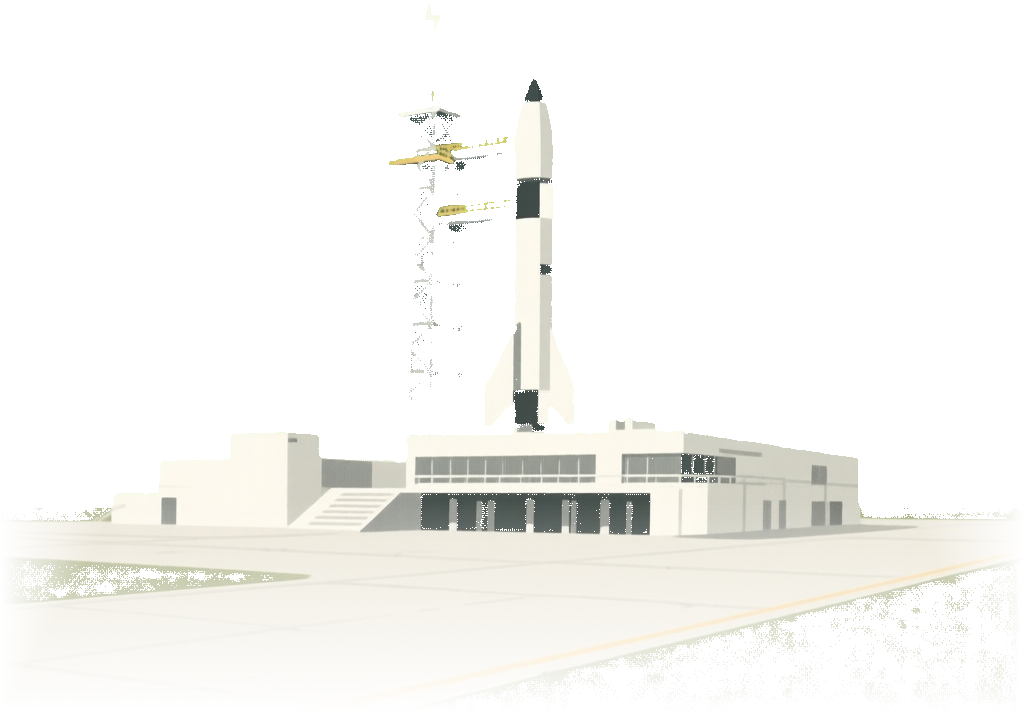
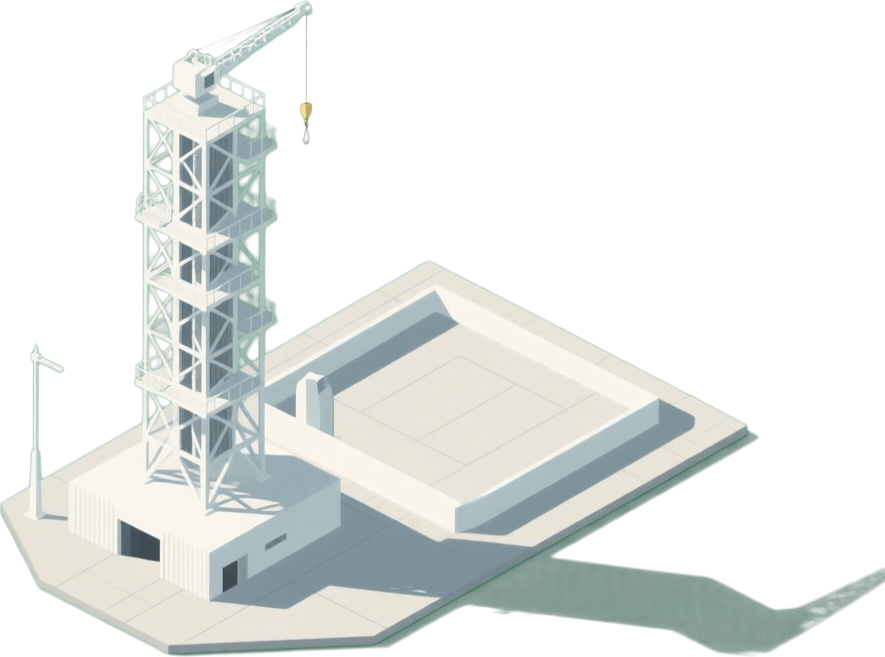
Cape Canaveral rebuilt as one scene: locked-angle buildings on the player's road plan
The Cape's buildings were separate pictures with different camera angles,
lighting and scales, laid over a background whose roads ignored them. It
is now one coherent scene:

- Ground: a fresh empty painting of the Cape (river, beach, scrub).
- Roads: the player's mock-up of the road plan, redrawn as smooth sand
  tracks in the painting's own track colour, with clearings squared to the
  buildings and a straight tapering runway strip; every clearing joins a
  road, each launch tower has a spur, and the old ragged painted track is
  replaced (tools/art_source/cape_roads.py).
- Buildings, hangar and launch complexes (built, bare site, wrecked) all
  regenerated at one locked high three-quarter view and sun
  (tools/art_source/cape_locked_angle.py), placed where the player put them.
- Unbuilt buildings show bare ground here instead of a plot outline
  (sides.usa.plots = false); small landmarks near the bottom bar carry
  their name above them.

Baikonur and Woomera are unchanged.

diff --git a/tools/art_source/cape_roads.py b/tools/art_source/cape_roads.py
@@ -1,0 +1,73 @@
+import numpy as np, math, json, sys
+from PIL import Image, ImageDraw, ImageFilter
+from scipy.ndimage import binary_dilation, gaussian_filter
+S=sys.argv[1]+"/"
+G=np.asarray(Image.open('/home/leeo/craft/in/cape2/ground.png').convert('RGB')).astype(float)
+H_,W_=G.shape[:2]
+r,gg,b=G[...,0],G[...,1],G[...,2]
+sandy=(r>215)&(r-b>18)&(r-gg>5)&(gg>190)
+# --- erase original tracks (diagonal from y>=430, the faint horizontal and right branch) ---
+yy,xx=np.mgrid[0:H_,0:W_]
+diag_x=np.interp(yy,[430,480,520,560,600,640,680,720,760,800,840,880,920,960,1000,1040,1080],[1170,1233,1295,1345,1387,1436,1480,1522,1560,1600,1643,1672,1707,1747,1781,1812,1845])
+ed=(sandy|((r>200)&(gg>195)&(r-b>15)))&(yy>=430)&(np.abs(xx-diag_x)<70)
+ed=binary_dilation(ed,iterations=4)
+hline_y=np.interp(xx,[0,500,1040],[428,410,386]); rb_y=np.interp(xx,[1480,1700,1920],[666,658,650])
+eh=((np.abs(yy-hline_y)<5)&(xx<1040)&(r>200))|((np.abs(yy-rb_y)<6)&(xx>1480)&(r>200)&(yy>640))
+eh=binary_dilation(eh,iterations=4)
+def shift(dx,dy):
+    o=np.empty_like(G); xs=np.clip(np.arange(W_)+dx,0,W_-1); ys=np.clip(np.arange(H_)+dy,0,H_-1)
+    return G[ys][:,xs]
+left=shift(-100,0); right=shift(100,0); below=shift(0,14)
+src=np.where((xx<diag_x)[...,None],left,right)
+clean=G.copy()
+bd=gaussian_filter(ed.astype(float),2.0)[...,None]; clean=clean*(1-bd)+src*bd
+bh=gaussian_filter(eh.astype(float),1.5)[...,None]; clean=clean*(1-bh)+below*bh
+Image.fromarray(np.clip(clean,0,255).astype(np.uint8)).save(S+"ground_clean.png")
+# --- roads ---
+def chaikin(p,n=5):
+    for _ in range(n):
+        q=[p[0]]
+        for a,c in zip(p,p[1:]): q+=[(a[0]*.75+c[0]*.25,a[1]*.75+c[1]*.25),(a[0]*.25+c[0]*.75,a[1]*.25+c[1]*.75)]
+        q.append(p[-1]); p=q
+    return p
+def width(y): return 10+15*max(0,min(1,(y-380)/700))
+roads=[
+ ([(1000,388),(1100,410),(1180,445),(1233,480),(1295,520),(1345,560),(1387,600),(1436,640),(1480,680),(1522,720),(1560,760),(1600,800),(1643,840),(1675,880),(1707,920),(1747,960),(1781,1000),(1812,1040),(1845,1095)],1.0),
+ ([(-10,428),(500,410),(1000,388)],0.85),
+ ([(1478,667),(1600,661),(1750,655),(1930,650)],0.9),
+ ([(522,585),(610,598),(690,625),(750,665),(840,735),(960,815),(1080,900),(1200,985),(1290,1050),(1345,1095)],1.0),
+ ([(612,1095),(700,1010),(820,935),(960,860),(1080,800),(1190,735),(1262,705),(1380,682),(1478,667)],1.0),
+ ([(1160,628),(1176,650),(1212,690),(1236,712)],0.8),
+ ([(186,836),(250,866),(300,895),(400,945),(482,996)],0.9),
+ ([(676,622),(612,658),(578,684),(596,703),(626,722)],0.8),
+ ([(1252,490),(1290,492)],0.8),
+ ([(1426,633),(1478,632)],0.8),
+ ([(1604,806),(1662,805)],0.8),
+ ([(958,556),(925,580),(895,604)],0.75),
+]
+A=(0.873,0.488); B=(0.877,-0.479)
+def para(P0,lb,la):
+    P1=(P0[0]+B[0]*lb,P0[1]+B[1]*lb); P2=(P1[0]+A[0]*la,P1[1]+A[1]*la); P3=(P0[0]+A[0]*la,P0[1]+A[1]*la)
+    return [P0,P1,P2,P3]
+lots=[para((750,642),110,52),para((1030,600),70,112),para((590,735),56,46),para((42,795),66,182),para((362,1016),78,205)]
+runway=[(45.7,185.0),(86.3,182.5),(354.7,398.8),(227.3,406.5)]
+K=4; m=Image.new('L',(W_*K,H_*K),0); d=ImageDraw.Draw(m)
+for pts,f in roads:
+    s=chaikin(pts)
+    for p,q in zip(s,s[1:]):
+        w=width((p[1]+q[1])/2)*f*K
+        d.line([(p[0]*K,p[1]*K),(q[0]*K,q[1]*K)],fill=255,width=max(1,int(w)))
+        d.ellipse([q[0]*K-w/2,q[1]*K-w/2,q[0]*K+w/2,q[1]*K+w/2],fill=255)
+    p=s[0]; w=width(p[1])*f*K; d.ellipse([p[0]*K-w/2,p[1]*K-w/2,p[0]*K+w/2,p[1]*K+w/2],fill=255)
+for q in lots+[runway]: d.polygon([(x*K,y*K) for x,y in q],fill=255)
+for cx,cy,rr in ((760,656,11),): d.ellipse([(cx-rr)*K,(cy-rr)*K,(cx+rr)*K,(cy+rr)*K],fill=255)
+mask=np.asarray(m.resize((W_,H_),Image.LANCZOS).filter(ImageFilter.GaussianBlur(0.9))).astype(float)
+noise=np.asarray(Image.effect_noise((W_,H_),20).convert('L').filter(ImageFilter.GaussianBlur(0.7))).astype(float)-128
+SAND=(244,226,199)
+rgb=np.dstack([SAND[i]+noise*0.035 for i in range(3)])
+Image.fromarray(np.dstack([np.clip(rgb,0,255),mask]).astype(np.uint8),'RGBA').save(S+"sand_roads.png")
+# flat background for the game
+cl=clean.copy(); al=(mask/255)[...,None]
+bg=cl*(1-al)+rgb*al
+Image.fromarray(np.clip(bg,0,255).astype(np.uint8)).save(S+"bg_spring.png")
+print("ok")

diff --git a/tools/art_source/cape_locked_angle.py b/tools/art_source/cape_locked_angle.py
@@ -1,0 +1,39 @@
+import sys
+sys.path.insert(0, "tools")
+import comfy_batch as cb
+from pathlib import Path
+out = Path(sys.argv[1])
+cfg = cb.STYLE["spaceport"]
+VIEW = ("seen from a high aerial angle looking down at about 40 degrees, a three-quarter view with the long front face "
+        "toward the lower left and the right side face visible toward the lower right, the flat roof clearly visible from above, "
+        "like a precise isometric architectural model; afternoon sun from the upper left, the right side face in soft shade, "
+        "a short soft shadow falling to the lower right")
+TEMPLATE = ("Flat vector illustration like a 1960s magazine plate, soft two-tone cel shading, clean geometric shapes, no outlines, "
+            "limited muted palette. {desc}, at an American space centre of the 1960s, clean white 1960s American modernist style, "
+            "{view}, the whole structure visible and centred, isolated in front of a plain solid flat bright green chroma key background #00FF00.")
+ids = ["padsite", "padwreck"]
+OVERRIDE = {
+    "padsite": ("A small empty octagonal concrete launch pad with a square concrete launch mount pedestal in its middle, nothing standing on it, no tower, no buildings, just the bare pad", "tower, gantry, rocket, building, crane, mast, people"),
+    "padwreck": ("A wrecked small octagonal concrete launch pad after a rocket explosion: the concrete scorched black, a steel lattice service tower bent and collapsed lying across the pad in twisted wreckage, small wisps of grey smoke, no fire", "rocket, flames, fire, people, vehicles"),
+    "tower": ("A 1960s American rocket launch complex with a small compact footprint: a tall rectangular steel lattice mobile service gantry tower, several times taller than it is wide, with platforms at many levels and a crane arm on top, standing right beside an empty square launch mount pedestal, both on a small octagonal concrete pad, a short umbilical mast beside the mount; the pad is empty with no rocket", "rocket, missile, spacecraft, smoke, fire, flames, exhaust, people, vehicles, large apron, wide concrete area, trench"),
+    "pad": ("An empty 1960s rocket launch pad: a large square concrete launch apron with a narrow dark grey empty concrete channel cut across it, a tall red-and-white steel lattice umbilical service tower standing at one side of an empty launch mount, a small low concrete blockhouse at the edge of the apron, the pad is empty with no rocket", "rocket, missile, spacecraft, smoke, fire, flames, lava, orange, glow, exhaust, people, vehicles"),
+    "hangar": ("A single aircraft hangar with a curved barrel-vault roof and a large open door, standing on a small square concrete apron, nothing else in the picture", "runway, airstrip, road, aeroplane, aircraft, people"),
+    "vab": ("A gigantic vehicle assembly building: a very tall white windowless box, about twice as tall as it is wide, "
+            "with huge tall vertical doors running almost the full height of the front, a low two-storey annex at its base", ""),
+    "memorial": ("A single slender white stone obelisk memorial standing alone on a low three-step square plinth on a small paved square, "
+                 "a wreath at its base, nothing else in the picture", "building, house, office, wall, roof, people"),
+}
+for bid in ids:
+    d = OVERRIDE[bid][0]
+    neg = cfg["cutout_negative"] + ", front view, straight-on elevation, side view, ground level view, low angle"
+    if OVERRIDE[bid][1]:
+        neg += ", " + OVERRIDE[bid][1]
+    for k in range(30, 33):
+        img = cb.run_workflow(cb.t2i_graph(TEMPLATE.format(desc=d, view=VIEW), cb.seed_for("angle/" + bid) + k, 1024, 768, neg), timeout=1800)[0]
+        img = cb.chroma_key(img, tuple(cfg["chroma_key"]), tight=True)
+        bb = img.getchannel("A").point(lambda v: 255 if v > 40 else 0).getbbox()
+        if bb:
+            img = img.crop(bb)
+        img.save(out / f"{bid}_{k}.png")
+        print(bid, k, flush=True)
+print("ALL-DONE")

diff --git a/tools/spaceport_layout.py b/tools/spaceport_layout.py
@@ -85,27 +85,27 @@ FIXED = {
 }
 # Hand-placed boxes that replace the solver for a whole side: (x, y, w, h) as canvas
 # fractions, each the full trimmed cutout. All three sites follow the player's mock-ups of
-# 2026-10-13/14 (measured by template-matching the cutouts in them), with buildings that
+# 2026-10-13/14 (the Cape redone at one camera angle on 2026-10-15) (measured by template-matching the cutouts in them), with buildings that
 # fell under the bottom bar lifted to end at 0.945; "flag" moves the flag.
 MANUAL = {
     "usa": {
-        "pad_1": (0.4623, 0.3851, 0.1226, 0.1516),
-        "pad_2": (0.6661, 0.3628, 0.1006, 0.1247),
-        "pad_3": (0.8522, 0.3460, 0.0802, 0.0995),
-        "vab": (0.5445, 0.4688, 0.1950, 0.1944),
-        "mission_control": (0.2531, 0.5451, 0.1462, 0.1516),
-        "administration": (0.5655, 0.7014, 0.1777, 0.1795),
-        "research": (0.1777, 0.5247, 0.0770, 0.1116),
-        "programs": (0.3291, 0.8334, 0.2358, 0.1116),
-        "astronaut_complex": (0.0142, 0.6633, 0.1918, 0.1907),
-        "training": (0.2165, 0.7340, 0.1525, 0.1451),
-        "museum": (0.4009, 0.6530, 0.1541, 0.1312),
-        "intelligence": (0.7982, 0.7776, 0.1006, 0.1674),
-        "runway": (0.7893, 0.4242, 0.2060, 0.2065),
-        "flag": (0.7448, 0.6307, 0.0802, 0.1377),
-        "moon": (0.3900, 0.1000, 0.0450, 0.0800),
-        "memorial": (0.8775, 0.6220, 0.0450, 0.0980),
-        "capital": (0.8975, 0.2764, 0.0750, 0.1016),
+        "vab": (0.3682, 0.1741, 0.1313, 0.1861),
+        "mission_control": (0.5911, 0.4491, 0.1000, 0.1259),
+        "administration": (0.4448, 0.5769, 0.1307, 0.1509),
+        "research": (0.5911, 0.6907, 0.1260, 0.1685),
+        "programs": (0.3297, 0.6139, 0.0891, 0.1028),
+        "astronaut_complex": (0.0813, 0.6139, 0.1469, 0.1694),
+        "training": (0.2302, 0.4056, 0.1208, 0.1333),
+        "museum": (0.2745, 0.7880, 0.1260, 0.1537),
+        "intelligence": (0.4865, 0.4352, 0.0729, 0.0972),
+        "memorial": (0.5443, 0.8926, 0.0370, 0.0500),
+        "pad_1": (0.6453, 0.3380, 0.0917, 0.1213),
+        "pad_2": (0.7464, 0.4602, 0.0969, 0.1278),
+        "pad_3": (0.8406, 0.6139, 0.1021, 0.1352),
+        "runway": (0.1349, 0.2380, 0.0792, 0.0833),
+        "flag": (0.5016, 0.8213, 0.0312, 0.0537),
+        "capital": (0.6776, 0.1647, 0.0302, 0.0409),
+        "moon": (0.0781, 0.0370, 0.0448, 0.0796),
     },
     "ussr": {
         "pad_1": (0.0073, 0.3916, 0.1158, 0.1579),
@@ -146,6 +146,8 @@ MANUAL = {
         "capital": (0.2000, 0.2619, 0.0300, 0.1001),
     },
 }
+# Sites painted as one scene: an unbuilt building shows bare ground, not a plot outline.
+NO_PLOTS = {"usa"}
 FRONT_Y = {"usa": 0.93, "ussr": 0.84, "cwth": 0.93}    # below this is foreground (dunes, scrub mound)
 GAP = 8                                 # pixels at analysis scale between buildings
 
@@ -343,6 +345,9 @@ def main() -> None:
         print(f"{side}: horizon {sides[side]['horizon']}, preview {out_dir / f'preview_{side}.png'}")
     if not a.preview_only:
         data["sides"] = {s: {k: v[k] for k in ("buildings", "flag") if k in v} for s, v in sides.items()}
+        for s in NO_PLOTS:
+            if s in data["sides"]:
+                data["sides"][s]["plots"] = False
         LAYOUT.write_text(json.dumps(data, indent=2) + "\n")
         print(f"wrote {LAYOUT.relative_to(ROOT)}")
 

diff --git a/tools/art_source/cape_ground.py b/tools/art_source/cape_ground.py
@@ -1,0 +1,16 @@
+import sys
+sys.path.insert(0, "tools")
+import comfy_batch as cb
+from pathlib import Path
+out = Path(sys.argv[1])
+p = ("Flat vector illustration like a 1960s magazine plate, soft two-tone cel shading, clean shapes, no outlines, limited muted palette. "
+     "A wide empty stretch of flat Florida coastal scrubland seen from high above at a 40 degree angle, an aerial view. "
+     "A thin strip of pale sky at the very top above a gently curved horizon. A wide river runs diagonally across the upper part of the picture "
+     "from the upper left down toward the right, with natural sandy banks, and a far green shore beyond it. "
+     "The near land fills most of the picture: flat open grassland in soft greens with scattered low scrub and small clumps of trees, "
+     "completely empty and undeveloped, no roads, no paths, no buildings, no structures. Afternoon light from the upper left.")
+neg = "roads, paths, tracks, buildings, houses, structures, towers, rockets, people, cars, text, labels, watermark, photograph, photorealistic, city, fields, farmland"
+for k in range(3):
+    img = cb.run_workflow(cb.t2i_graph(p, cb.seed_for("angle/cape_ground") + k, 1664, 928, neg), timeout=1800)[0]
+    cb.fit_cover(img.convert("RGB"), (1920, 1080)).save(out / f"ground_{k}.png")
+    print("g", k, flush=True)

diff --git a/game/assets/MANIFEST.md b/game/assets/MANIFEST.md
@@ -34,7 +34,7 @@ Regenerate the audio with `python3 -I tools/gen_audio.py --out game/assets/audio
 | art/hardware/ussr/*.png | Soviet hardware icons, 512x512, green-screen keyed to alpha | Qwen-Image (Apache 2.0) text-to-image via tools/comfy_batch.py from the descriptions in tools/comfy_style.json; seed = crc32(side/group_slot), Luna and UR-700 +1, Kicker-A +3 | CC0 (AI output) |
 | art/hardware/cwth/*.png | Commonwealth hardware icons, 512x512, green-screen keyed to alpha | as above; seed = crc32(side/group_slot) | CC0 (AI output) |
 | art/backdrops/*.png | title, newscast and end-game backdrops, 1920x1080 | Qwen-Image (Apache 2.0) text-to-image via tools/comfy_batch.py; seed = crc32(name), newscast_ussr +2, mission_control_usa +1, title +20 (visor repainted gold by hand) | CC0 (AI output) |
-| art/spaceport/usa/*.png | Cape Canaveral: two season backgrounds (1920x1080) and green-screen cutouts for each building, plot, pad state and flag | Qwen-Image (Apache 2.0) text-to-image via tools/comfy_batch.py from tools/comfy_style.json; seed = crc32(side/layer), flag +1, building_runway +3, building_memorial +1; building_capital is the Capitol at the base seed | CC0 (AI output) |
+| art/spaceport/usa/*.png | Cape Canaveral, rebuilt 2026-10-15 as one scene: an empty ground painting with the player's road layout painted in (tools/art_source/cape_roads.py), and every building, pad state and the hangar regenerated at one locked camera angle and sun (tools/art_source/cape_locked_angle.py); autumn graded from spring | Qwen-Image (Apache 2.0) text-to-image; ground seed crc32(angle/cape_ground)+1 (tools/art_source/cape_ground.py); cutouts seed crc32(angle/<name>)+k: administration, research, programs, astronaut_complex, training, mission_control, museum, intelligence k=0, vab 2, memorial 3, hangar (building_runway) 1, launch tower (pad_ok) tower 23, pad_site padsite 30, pad_damaged padwreck 31; flag and Capitol unchanged | CC0 (AI output) |
 | art/spaceport/ussr/*.png | Baikonur: the same layer set | Qwen-Image (Apache 2.0) text-to-image via tools/comfy_batch.py; seed = crc32(side/layer); building_capital (the Kremlin Spasskaya Tower) at the base seed, its wall trimmed to short stubs and the missing spire painted back in by script | CC0 (AI output) |
 | art/spaceport/cwth/*.png | Woomera: the same layer set; autumn graded from spring by tools/season_grade.py | Qwen-Image (Apache 2.0) text-to-image via tools/comfy_batch.py; seed = crc32(side/layer); background_spring +3 with "rocket, tower, sheds, huts, buildings on the horizon" added to the negative prompt; building_capital (Big Ben) +1; building_runway from the first runway prompt (a long strip running away from the viewer) at the base seed, mirrored left to right | CC0 (AI output) |
 | art/icons/budget.svg, hardware.svg, future.svg, recruiting.svg, preferences.svg | Administration menu glyphs, 64x64 | hand-drawn for this project | GPL-2.0-or-later (project) |
